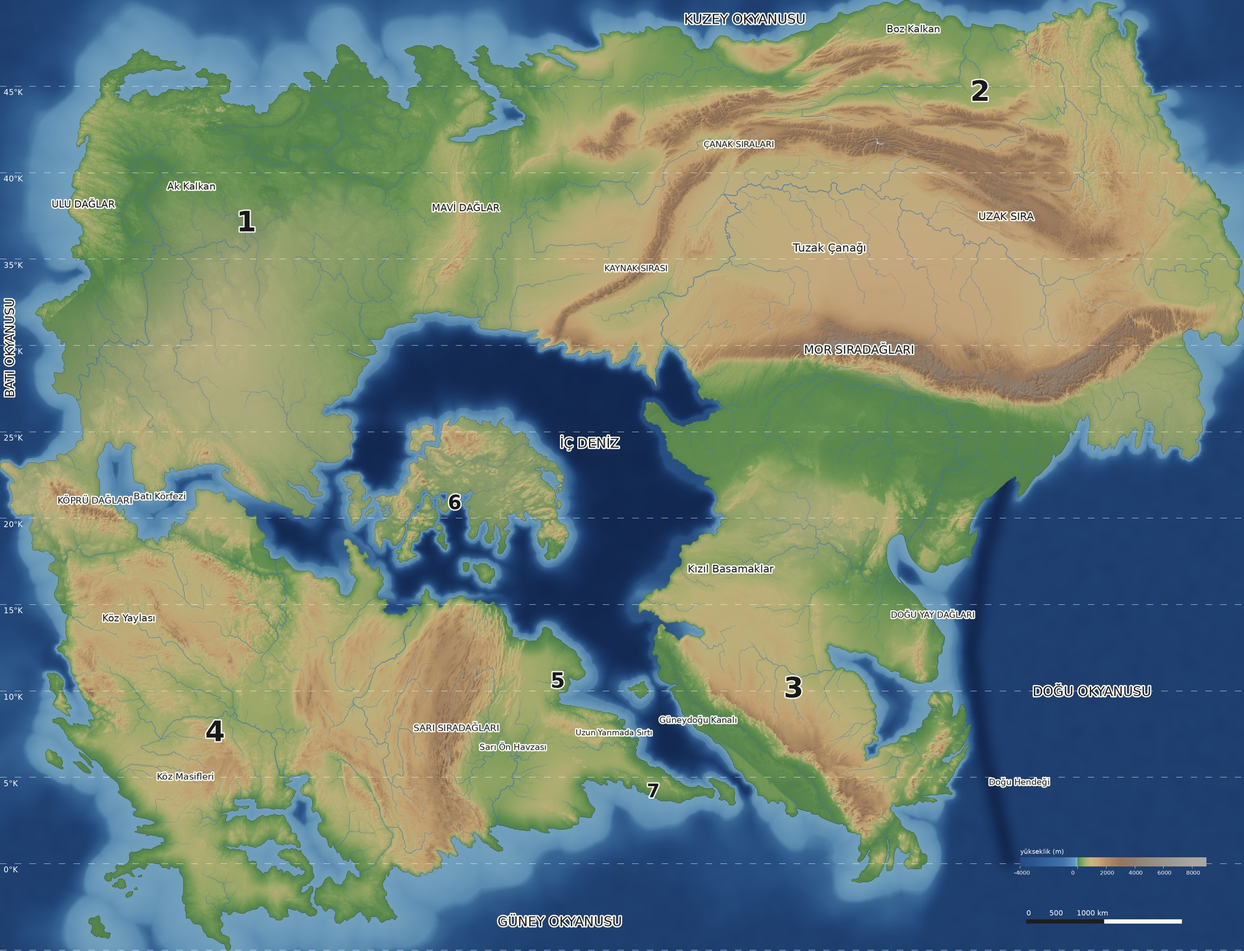
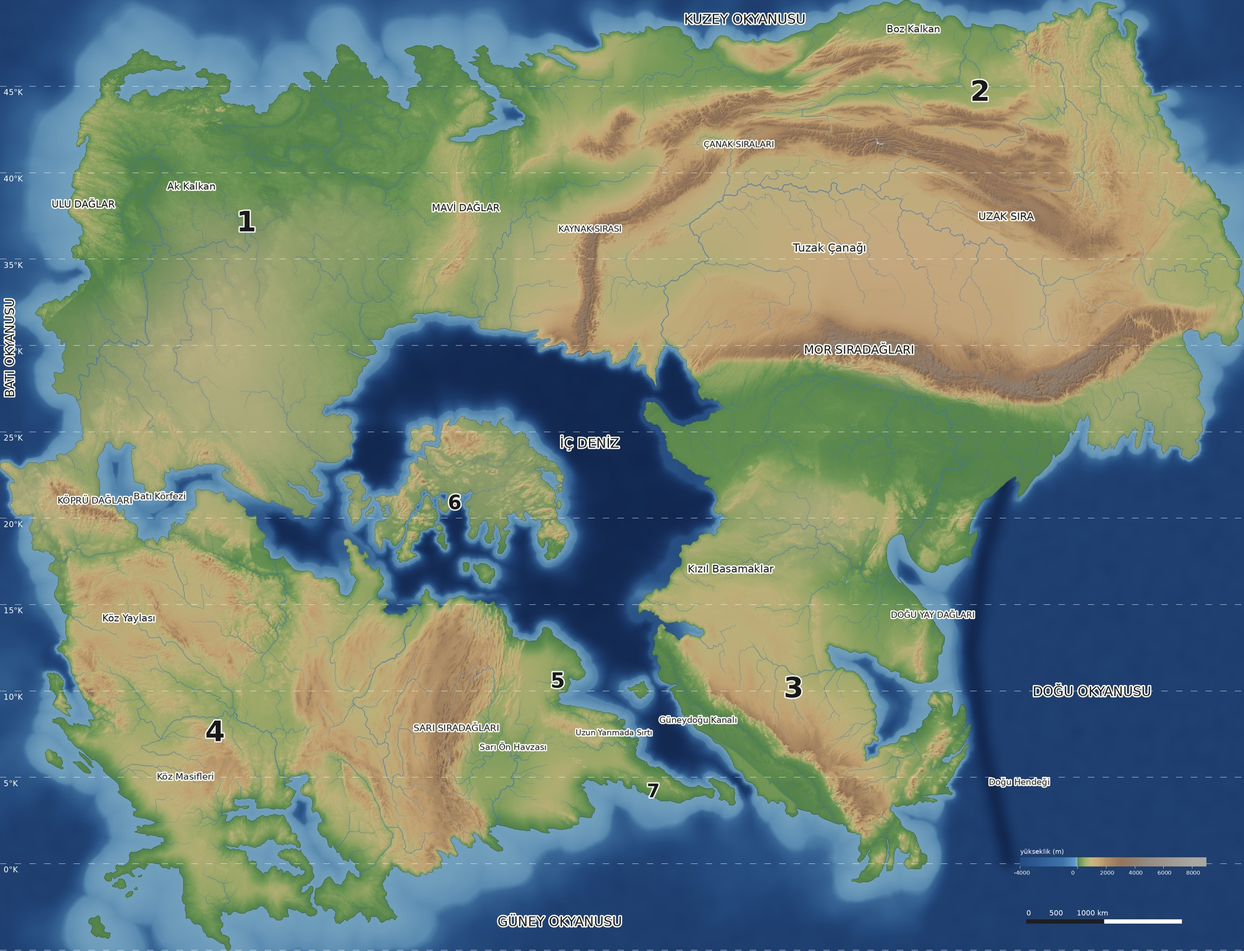
Tarih: Kaynak Sırası tek parça; kuzey kol 44°K'de güneye döner, güney kesim altıncı denemenin hattında
Claude-Session: https://claude.ai/code/session_01TrTgWsQ7k9npTcPJkL6aYQ

Changed region(s): [[0.434, 0.1843, 0.589, 0.3686]]

diff --git a/tarih/benzer.py b/tarih/benzer.py
@@ -69,12 +69,12 @@ KARSILIK = [
         "ad": "Kaynak", "kutu": (35, 51, 39, 47.5), "parca": {"2"}, "oncelik": 4.0, "yumusak_km": 35, "bukme_kat": 0.0,
         "yukseklik_egri": [(0, 0), (1000, 900), (2500, 2150), (4000, 3000), (5700, 3500)],
         "etiket": [("KAYNAK SIRASI", 42.4, 43.35, 14)],
-        # sahibin çizdiği S biçimli hat (görüntü pikseli): Çanak Sıraları'ndan güneybatıya, dibe doğru incelerek ve alçalarak.
-        # Kafkas ters yönde: alçak ve ince batı ucu (Anapa) sıranın dibinde.
-        "nokta": [(1150, 241, 48.6, 41.2), (1108, 291, 47.0, 41.8), (1077, 333, 45.4, 42.4), (1055, 386, 43.8, 42.9),
-                  (1024, 438, 42.2, 43.35), (977, 475, 40.2, 43.9), (908, 498, 37.6, 44.8)],
-        "bolge": [(1120, 205), (1190, 225), (1150, 300), (1110, 350), (1090, 410), (1050, 470), (990, 515), (900, 525),
-                  (890, 480), (960, 445), (1000, 405), (1025, 345), (1065, 280)],
+        # kuzey kol: Çanak Sıraları'ndan güneybatıya iner, 44°K dolayında güneye döner; güney kesimi SIRT_GUNEY sürdürür
+        # (işlev: atlas denemelerinde bozkırı 36 ile 44°K arasında yaklaşık 3°B'deki 3400 m üstü sırt sağlıyor)
+        "nokta": [(1150, 241, 48.6, 41.2), (1108, 291, 47.0, 41.8), (1068, 322, 45.6, 42.3), (1020, 342, 44.2, 42.75),
+                  (982, 356, 43.2, 43.0), (958, 372, 42.4, 43.2)],
+        "bolge": [(1120, 205), (1190, 225), (1150, 300), (1080, 345), (1010, 372), (975, 395), (928, 392), (940, 350),
+                  (1000, 322), (1065, 280)],
     },
     {   # Mor Sıradağları: yalnız dar sıra şeridi; karşılığı aynalanmış Himalaya'nın ön kuşağı (arkasındaki yayla dahil değil),
         # yükseklik 6 km dolayına ölçekli. Çanak bölgesinin üstüne baskın yazılır.
@@ -378,13 +378,9 @@ def guney_yarimada(z, kara, s):
 
 GOL = None
 # Kaynak Sırası: dokunun altına geniş ve alçak kabartı (boşluk kalmasın); doruklar yumuşak sınırla 3500 m dolayında tutulur
-SIRT_TABAN = {"cizgi": [(1150, 241), (1108, 291), (1077, 333), (1055, 386), (1050, 423), (1003, 451), (961, 475), (929, 491), (908, 503),
-                         (900, 518), (896, 533), (893, 545)],
-              # sahibin isteği: güney kesim çizdiği hatta yaklaşık 3000 m, ucu ince biter
-              # güney ucu kıyıdaki yükseltiye bağlanır: yağmurun ucun yanından çanağa girdiği açıklık kapanır
-              "kabarti": [900, 900, 850, 850, 1500, 1750, 1750, 2000, 2300, 2100, 1400, 400],
-              "yari_km": [60, 60, 55, 50, 46, 42, 38, 36, 34, 30, 24, 14],
-              "ust": 3750.0}
+SIRT_TABAN = {"cizgi": [(1150, 241), (1108, 291), (1068, 322), (1020, 342), (982, 356), (958, 372)],
+              "kabarti": [900, 900, 900, 950, 1000, 1000], "yari_km": [60, 60, 56, 52, 50, 48], "ust": 3750.0,
+              "son_incel": False}   # güney ucu incelmez: SIRT_GUNEY kesintisiz devam eder
 
 
 def sirt_taban(z, kara, s):
@@ -403,7 +399,7 @@ def sirt_taban(z, kara, s):
     d, i = cKDTree(pts).query(np.stack([xx.ravel(), yy.ravel()], 1))
     d = d.reshape(xx.shape) * O.KM_PX / s; i = i.reshape(xx.shape)
     t = i / (len(pts) - 1)
-    uc = np.clip(t / 0.03, 0, 1) * np.clip((1 - t) / 0.06, 0, 1)
+    uc = np.clip(t / 0.03, 0, 1) * (np.clip((1 - t) / 0.06, 0, 1) if SIRT_TABAN.get("son_incel", True) else 1.0)
     k = A[i] * np.exp(-(d / Wk[i]) ** 2) * uc
     alt = z[r0:r1, c0:c1] + k
     u = SIRT_TABAN["ust"] - 300
@@ -417,11 +413,11 @@ def sirt_taban(z, kara, s):
 # Kaynak Sırası'nın 44°K ile 36°K arası (atlas oturumunun kararı: gedik kapansın, kesim en az 3000 m, genişlik kuzeyle aynı,
 # hat 44°K 2,7°B ile 36°K 3,6°B arası). Doku Kafkas'ın yüksek orta bölümünden (ters yönde); kıyı alçaltmasından sonra uygulanır ki sıra kıyıya kadar yüksek kalsın.
 SIRT_GUNEY = {
-    "etkin": False,  # sahip sırtı S biçimli hatta taşıdı ve dibe doğru incelmesini istedi; bu kesim artık kullanılmıyor
-    "cizgi": [(955, 365), (950, 410), (944, 456), (939, 501), (934, 549)],
+    "etkin": True,   # 15 Kasım: işlev için geri açıldı; kuzey kolla 44°K dolayında birleşir
+    "cizgi": [(958, 368), (950, 410), (946, 456), (940, 501), (934, 549)],
     "karsilik": {"ad": "KafkasGüney", "kutu": (38, 50, 39.5, 46), "bolge": [(0, 0)],
                  "yukseklik_egri": [(0, 0), (1000, 900), (2500, 2150), (4000, 3000), (5700, 3500)],
-                 "nokta": [(955, 365, 47.3, 41.6), (950, 410, 46.0, 42.2), (944, 456, 44.6, 42.7), (939, 501, 43.3, 43.0),
+                 "nokta": [(958, 368, 47.3, 41.6), (950, 410, 46.0, 42.2), (946, 456, 44.6, 42.7), (940, 501, 43.3, 43.0),
                            (934, 549, 41.8, 43.4)]},
     "kabarti": 1250.0, "yari_km": 55.0, "serit_km": 150.0, "taban": 2700.0, "taban_km": 22.0, "ust": 3800.0,
 }
@@ -663,7 +659,6 @@ def bilesik():
     z = on_ova(z, kara, s, lab, adlar)
     z = sirt_taban(z, kara, s)
     z = cukur_doldur(z, kara, s)
-    z = kaynak_guney_doku(z, kara, s)
     z = ural_bastir(z, kara, s)
     z = mavi_kabarti(z, kara, s)
     z = sari_uc(z, kara, s)

diff --git a/tarih/notlar/KARARLAR.md b/tarih/notlar/KARARLAR.md
@@ -81,3 +81,7 @@ Mavi Dağlar: Ural şeridi yerine kıvrımlı Apalaş sırtları (tepe 850 ile 1
   kara yükseklikleri altıncı denemenin (d673c2f) değerlerine geri getirildi; atlas_yama.py, kutu içinde 4 piksellik geçiş. Kutu dışı fark 0.
   Bu yama yalnız atlas dosyalarında; benzer.py'nin ürettiği tarih haritası dokuzuncu denemenin S biçimli sırtını göstermeye devam ediyor.
   44°K'de düz sırt 2,7°B'de, kuzeydeki S sırtı 2,0°D'de: iki sırt birleşmiyor, arada yaklaşık 4,7° boylamlık açıklık var.
+- 15 Kasım (onuncu deneme yerine): kutu yaması şekli bozduğu için tarih aracında birleştirildi. Kaynak Sırası artık tek parça:
+  kuzey kol Çanak Sıraları'ndan güneybatıya iner, 44°K dolayında yayla güneye döner; 36 ile 44°K arası altıncı denemenin hattı ve
+  dokusu (SIRT_GUNEY yeniden açık). Atlasta 36-44°K tepeler 3274 ile 3678 m, boylam 3,5°B ile 2,7°B, 2000 m üstü genişlik 0,97 ile 1,76°;
+  altıncı denemeden kutu içinde ortalama fark 75 m. atlas_yama.py ile yapılan yama bununla geçersiz.
